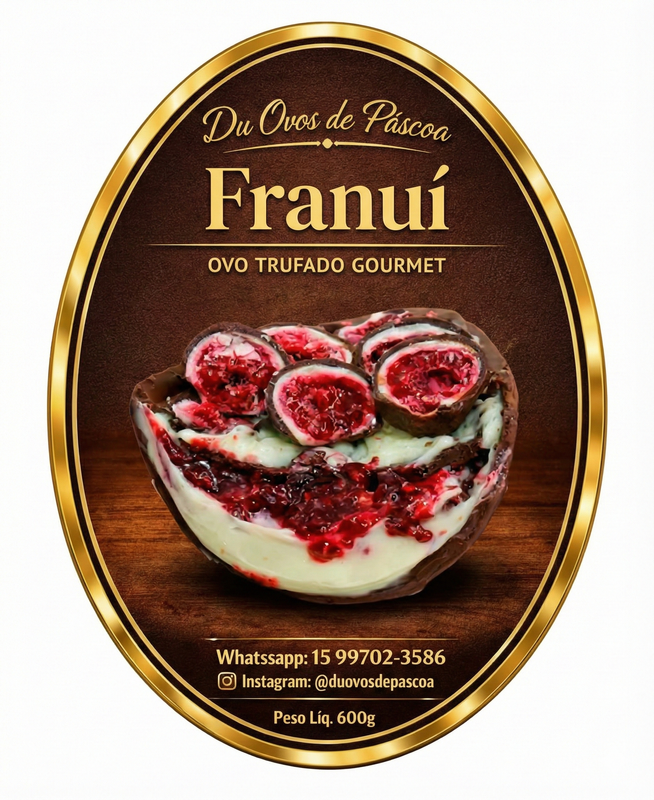
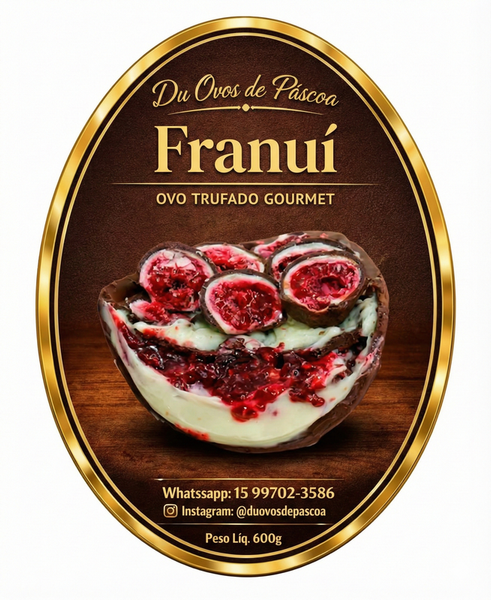
Resize specific images to 600x600

diff --git a/scripts/resize_fix.ts b/scripts/resize_fix.ts
@@ -1,0 +1,40 @@
+
+import sharp from "sharp";
+import path from "path";
+import fs from "fs";
+
+const DIR = path.join(process.cwd(), "client/public/products");
+const filesToResize = [
+    { name: "franui.png", size: 600 },
+    { name: "laka_oreo_nutella.jpeg", size: 600 },
+    { name: "prestigio.png", size: 600 }
+];
+
+async function resizeImages() {
+    console.log("Resizing specific images...");
+    for (const item of filesToResize) {
+        const filePath = path.join(DIR, item.name);
+        if (!fs.existsSync(filePath)) {
+            console.log(`${item.name}: NOT FOUND`);
+            continue;
+        }
+
+        // Create temp file
+        const tempPath = path.join(DIR, `temp_${item.name}`);
+
+        try {
+            await sharp(filePath)
+                .resize(item.size, item.size, { fit: 'inside', withoutEnlargement: true })
+                .toFile(tempPath);
+
+            // Replace original
+            fs.renameSync(tempPath, filePath);
+            console.log(`${item.name}: Resized to fit ${item.size}x${item.size}`);
+        } catch (e) {
+            console.error(`${item.name}: Error resizing`, e);
+            if (fs.existsSync(tempPath)) fs.unlinkSync(tempPath);
+        }
+    }
+}
+
+resizeImages().catch(console.error);
